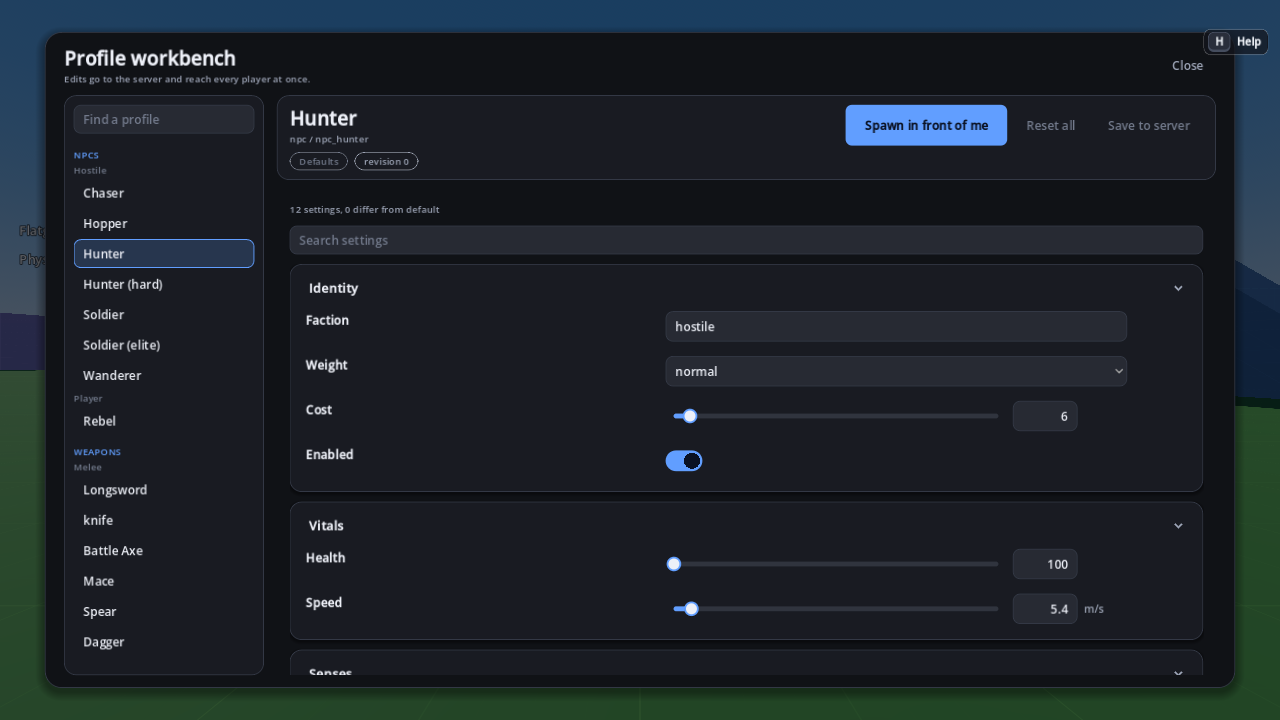
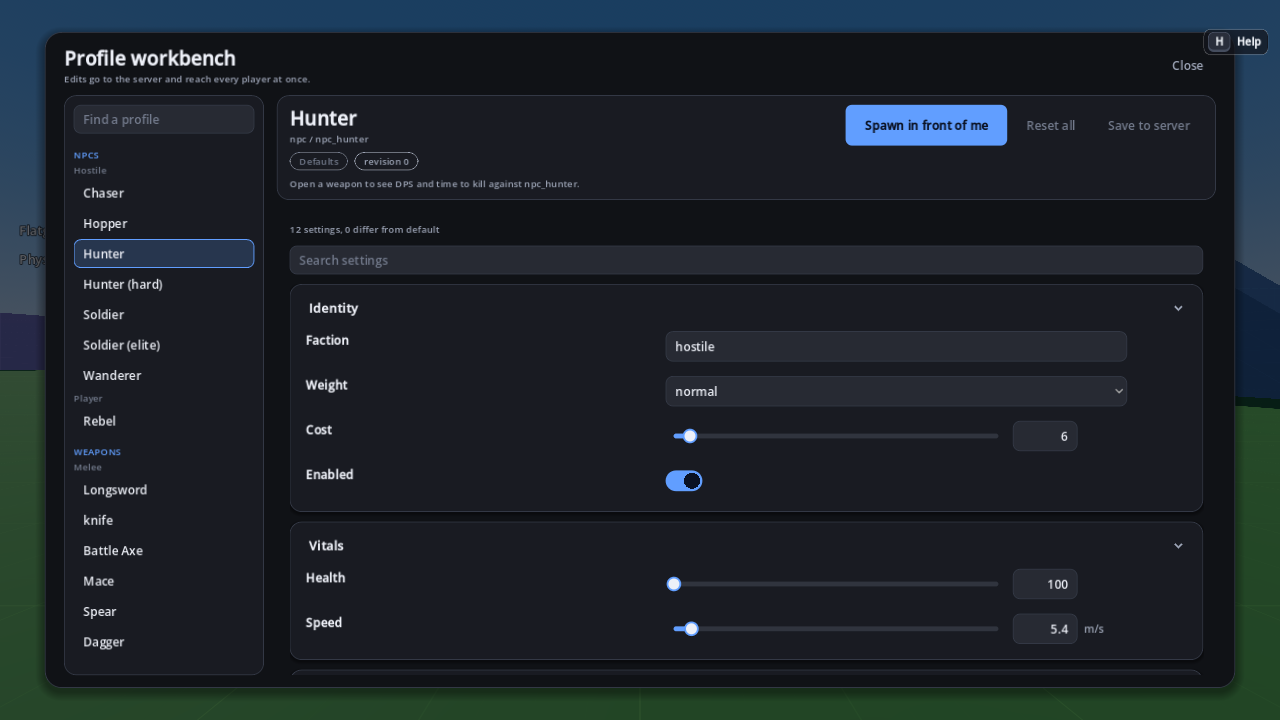
Profile workbench: DPS and time-to-kill readout
A line under the card shows burst and sustained DPS of the weapon last opened and the shots and seconds to kill the NPC last opened, following live edits. Arithmetic in playground_profile_readout.gd, checked in headless_playground (796 checks); workbench screenshots re-rendered.

diff --git a/docs/profiles.md b/docs/profiles.md
@@ -40,4 +40,5 @@ dot-workbench's `DotWorkbenchHttp` edits the same `Playground.profiles.runtime` 
 - The form follows `profile_changed`, so another admin's edit shows here; the refresh waits while the mouse is held or edits are pending, so a slider drag is not fought.
 - Admin gating: there is no "am I an admin" message, so the client probes once per connection with a harmless `reset_key` on an empty id. An answer starting "profile edits need" means a player (the entry is hidden and a notice shown), anything else an admin. The probe costs one WARN line on the server per non-admin who presses F6.
 - `docs/workbench_npc.png` and `docs/workbench_weapon.png` are rendered by `tools/render_workbench.sh` (xvfb, 1280x720).
-- Checked by `headless_playground` ("the profile workbench edits live through requests").
+- A readout line under the card gives DPS (burst, and sustained with reloads) of the weapon last opened and the shots and seconds to kill the NPC last opened (100 hp until one is opened). `game/playground_profile_readout.gd` computes it from the flattened rows (`extra.damage` times `extra.pellets` or `extra.splash_damage`, `extra.rpm` or `use_interval_ticks`, `magazine`, `extra.reload_seconds` or `reload_ticks`), so it follows live edits.
+- Checked by `headless_playground` ("the profile workbench edits live through requests", DPS and TTK arithmetic included).
